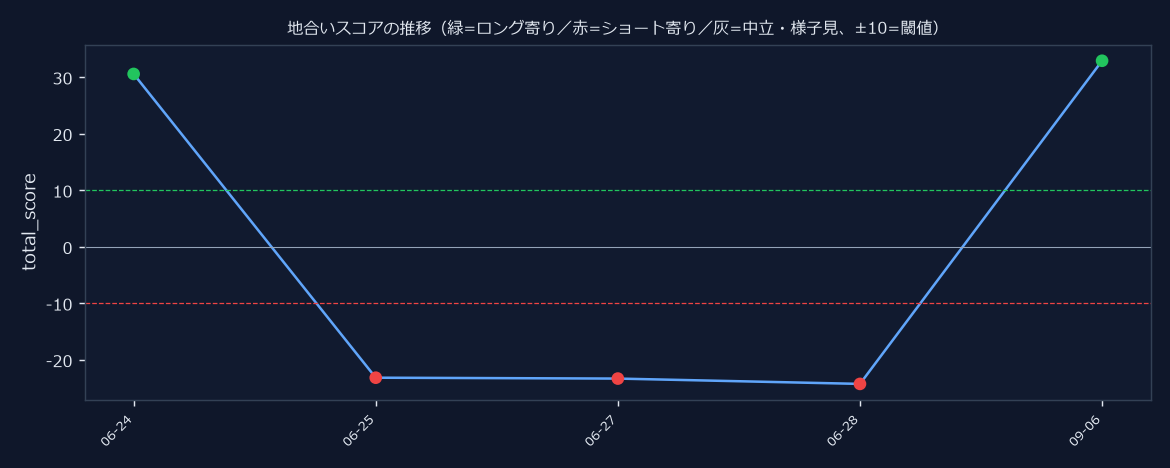
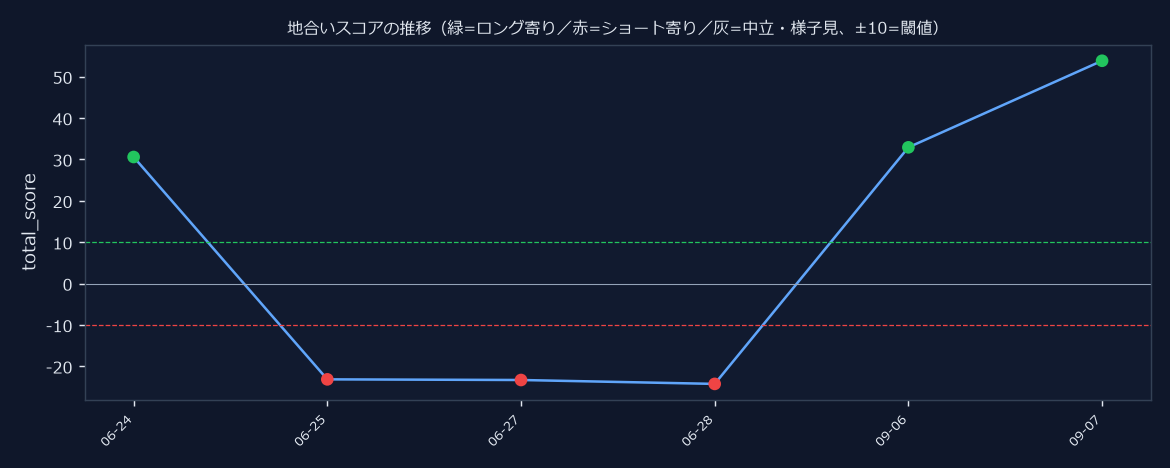
auto: refresh static site (2026-09-07 15:35:28 JST)

diff --git a/docs/index.html b/docs/index.html
@@ -48,7 +48,7 @@ a{color:var(--acc)}.disc{border-top:1px solid var(--border);margin-top:24px;padd
 <div class="channel-bar"><a href="https://www.youtube.com/@EthanHuntStock" target="_blank" rel="noopener noreferrer">▶ YouTube: @EthanHuntStock</a></div>
 <h1>🧠 AIセクターモニター（静的共有版）</h1>
 <a class="cross-link" href="https://ethanhuntstock.github.io/Keijiban-bunseki/" target="_blank" rel="noopener noreferrer">🔗 おにや式投資法ダッシュボード（キオクシア285A掲示板センチメント分析）</a>
-<div class="muted">生成 2026-09-07 15:34 JST｜価格: Yahoo Finance｜ニュース: RSS｜イベント: 手動正本｜60秒毎に自動更新（ブラウザが自動的に再読み込み）</div>
+<div class="muted">生成 2026-09-07 15:35 JST｜価格: Yahoo Finance｜ニュース: RSS｜イベント: 手動正本｜60秒毎に自動更新（ブラウザが自動的に再読み込み）</div>
 <div class="label-note">※「バイアス」「買い目線/売り目線」「発火」「ボラ警戒」は<b>状態を記述するラベル</b>であり売買推奨ではありません。</div>
 <p id='visit-count-badge' class='muted'>👀 累計閲覧数: 22</p>
 <p id='like-button-wrap' class='muted'><button id='like-button' type='button' class='like-btn'>👍</button><span id='like-count-label'>このダッシュボードが役に立ったら押してください（累計 1 いいね）</span></p>
@@ -56,38 +56,38 @@ a{color:var(--acc)}.disc{border-top:1px solid var(--border);margin-top:24px;padd
 <h2>今日のバイアス（地合いスコア）<span class="help" tabindex="0"><span class="help-ico">?</span><span class="help-pop">複数の判断材料（マクロ・メモリ同業・キオクシア固有イベント・ニュース）を1つに合成した“今日の地合い（売買の傾き）”です。プラスほど買い目線、マイナスほど売り目線。<br><br><b>表の見方</b><br>subscore＝各軸の素点（-1〜+1）／weight＝その軸の重み（合計が1になるよう設計）／寄与＝subscore×weight×100。寄与がプラスの軸ほどバイアスを押し上げ、マイナスの軸ほど押し下げています。<br><br><b>各軸の意味</b><br>マクロ(SOX/円)＝米半導体指数と為替の逆風/追い風／メモリピア＝同業(SKハイニックス・サムスン・マイクロン・サンディスク)の値動き／キオクシア固有イベント(守り)＝決算・増資等の警戒度合い（マイナス方向のみに働く軸）／ニュース温度＝ニュース見出しの強気/弱気を自動採点。<br><br>total_score ＋10超＝ロング寄り／−10未満＝ショート寄り／その間＝中立。<b>機械的な目安で、最終判断は人・1日で断定しない。</b></span></span></h2>
 <div class="panel">
   <span class="bias long">ロング寄り</span>
-  <span class="score">total +54.2</span>
-  <span class="delta">▲+21.3（前回 09-06 +32.9 ロング寄り・変化なし）</span>
-  <div class="muted">時点 09-07 15:34｜status ok
+  <span class="score">total +53.9</span>
+  <span class="delta">▲+21.0（前回 09-06 +32.9 ロング寄り・変化なし）</span>
+  <div class="muted">時点 09-07 15:35｜status ok
   </div>
   <img src="images/regime.png" alt="地合いスコア内訳">
-  <table><thead><tr><th>軸</th><th class=num>subscore</th><th class=num>weight</th><th class=num>寄与</th></tr></thead><tbody><tr><td>マクロ(SOX/円)</td><td class=num>0.2627</td><td class=num>0.35</td><td class='num pos'>+9.19</td></tr><tr><td>メモリピア</td><td class=num>1.0</td><td class=num>0.3</td><td class='num pos'>+30.00</td></tr><tr><td>キオクシア固有イベント(守り)</td><td class=num>0.0</td><td class=num>0.2</td><td class='num '>+0.00</td></tr><tr><td>ニュース温度</td><td class=num>1.0</td><td class=num>0.15</td><td class='num pos'>+15.00</td></tr><tr><td>掲示板温度(観測)</td><td class=num>-0.0351</td><td class=num>0.0</td><td class='num '>+0.00</td></tr><tr><td>予想ボラ(観測)</td><td class=num>-0.6401</td><td class=num>0.0</td><td class='num '>+0.00</td></tr></tbody></table>
+  <table><thead><tr><th>軸</th><th class=num>subscore</th><th class=num>weight</th><th class=num>寄与</th></tr></thead><tbody><tr><td>マクロ(SOX/円)</td><td class=num>0.2553</td><td class=num>0.35</td><td class='num pos'>+8.94</td></tr><tr><td>メモリピア</td><td class=num>1.0</td><td class=num>0.3</td><td class='num pos'>+30.00</td></tr><tr><td>キオクシア固有イベント(守り)</td><td class=num>0.0</td><td class=num>0.2</td><td class='num '>+0.00</td></tr><tr><td>ニュース温度</td><td class=num>1.0</td><td class=num>0.15</td><td class='num pos'>+15.00</td></tr><tr><td>掲示板温度(観測)</td><td class=num>-0.0351</td><td class=num>0.0</td><td class='num '>+0.00</td></tr><tr><td>予想ボラ(観測)</td><td class=num>-0.6401</td><td class=num>0.0</td><td class='num '>+0.00</td></tr></tbody></table>
   <div class="muted">total_score ＋10超＝ロング寄り／−10未満＝ショート寄り／その間＝中立。内訳を見て最終判断は人・1日で断定しない。</div>
   <div class="plain">おにや式投資法の掲示板センチメント(強気/弱気の投稿の傾き)を観測用の第5軸として表示しています。今は重みゼロの観測専用で、地合いスコアには含まれません。</div><div class="muted">掲示板温度 -0.04（観測・寄与0）｜灼熱 24｜発火 0/9｜09-07 15:22　｜直近6h推移: 強気比<span class="">—</span>（下降）</div>
 </div>
 
-<h2>セクター概況<span class="help" tabindex="0"><span class="help-ico">?</span><span class="help-pop">AIセクター全体(メモリ/AIチップ/日本SPE計15銘柄)のうち何銘柄が値上がりしているか(値上がり銘柄比率)と、キオクシア(285A)の値動きが直接比較可能な同業(SKハイニックス/サムスン/マイクロン/サンディスク)の分布から何SD乖離しているか(独歩指数)、日本の半導体関連7銘柄のうち何銘柄が同時に急落局面にあるか(急落局面)を表示します。<br><br>値上がり銘柄比率が高い＝セクター全体に追い風の日。独歩指数がプラスに大きい＝285Aだけが同業より強く買われている(独歩高)、マイナスに大きい＝独歩安。±1SD程度は誤差の範囲、±2SD超で「明確に同業と違う動き」の目安です。急落局面＝直近60営業日高値から10%以上下落している銘柄数（複数銘柄が同時に該当＝セクター全体のマクロ要因、1銘柄のみ＝個別材料の目安）。<br><br><b>市場構造の記述であり、売買シグナルではありません。</b></span></span></h2><div class="panel"><div class="plain">「値上がり銘柄比率」は、AIセクターの主要15銘柄のうち何銘柄が値上がりしているかの割合です。比率が高いほどセクター全体に追い風の日ということです。「独歩指数」は、キオクシア(285A)が同業(SKハイニックス・サムスン・マイクロン・サンディスク)と比べて特に強く買われている（プラス＝独歩高）か、特に弱い（マイナス＝独歩安）かを表します。</div><div class="badges"><span class="badge pos">値上がり銘柄比率 15/15（100%）</span><span class="badge ">285A独歩指数 +0.39SD（独歩高）</span></div><div class="muted">市場構造の記述であり、売買シグナルではありません。</div><div class="plain">「急落局面」は、直近60営業日の最高値から10%以上下がっている銘柄のことです。日本の半導体関連7銘柄(キオクシア+製造装置6社)のうち、今どれだけの銘柄が同時に急落局面にあるかを見れば、1銘柄だけの個別材料か、セクター全体のマクロショックかの手がかりになります。</div><div class="badges"><span class="badge neg">急落局面 7/7銘柄</span></div><div class="muted">該当: キオクシア・レーザーテック・ディスコ・SCREEN 他3銘柄</div></div>
+<h2>セクター概況<span class="help" tabindex="0"><span class="help-ico">?</span><span class="help-pop">AIセクター全体(メモリ/AIチップ/日本SPE計15銘柄)のうち何銘柄が値上がりしているか(値上がり銘柄比率)と、キオクシア(285A)の値動きが直接比較可能な同業(SKハイニックス/サムスン/マイクロン/サンディスク)の分布から何SD乖離しているか(独歩指数)、日本の半導体関連7銘柄のうち何銘柄が同時に急落局面にあるか(急落局面)を表示します。<br><br>値上がり銘柄比率が高い＝セクター全体に追い風の日。独歩指数がプラスに大きい＝285Aだけが同業より強く買われている(独歩高)、マイナスに大きい＝独歩安。±1SD程度は誤差の範囲、±2SD超で「明確に同業と違う動き」の目安です。急落局面＝直近60営業日高値から10%以上下落している銘柄数（複数銘柄が同時に該当＝セクター全体のマクロ要因、1銘柄のみ＝個別材料の目安）。<br><br><b>市場構造の記述であり、売買シグナルではありません。</b></span></span></h2><div class="panel"><div class="plain">「値上がり銘柄比率」は、AIセクターの主要15銘柄のうち何銘柄が値上がりしているかの割合です。比率が高いほどセクター全体に追い風の日ということです。「独歩指数」は、キオクシア(285A)が同業(SKハイニックス・サムスン・マイクロン・サンディスク)と比べて特に強く買われている（プラス＝独歩高）か、特に弱い（マイナス＝独歩安）かを表します。</div><div class="badges"><span class="badge pos">値上がり銘柄比率 15/15（100%）</span><span class="badge ">285A独歩指数 +0.37SD（独歩高）</span></div><div class="muted">市場構造の記述であり、売買シグナルではありません。</div><div class="plain">「急落局面」は、直近60営業日の最高値から10%以上下がっている銘柄のことです。日本の半導体関連7銘柄(キオクシア+製造装置6社)のうち、今どれだけの銘柄が同時に急落局面にあるかを見れば、1銘柄だけの個別材料か、セクター全体のマクロショックかの手がかりになります。</div><div class="badges"><span class="badge neg">急落局面 7/7銘柄</span></div><div class="muted">該当: キオクシア・レーザーテック・ディスコ・SCREEN 他3銘柄</div></div>
 
 <h2>寄り前ブリーフ<span class="help" tabindex="0"><span class="help-ico">?</span><span class="help-pop">前夜の米国市場（SOX指数・マイクロン等）と為替・金利から、今朝のキオクシア(285A)の寄り付き方向（上ギャップ＝高く始まる/下ギャップ＝安く始まる）を推定します。“攻め”は順張りしやすい地合い、“守り”は慎重・無理しない地合い。<br><br><b>表の項目</b><br>各行＝前夜の米国市場や為替の変化率(値%)に重み(weight)を掛けて寄与に変換したもの。SOX指数（フィラデルフィア半導体指数）＝米半導体株の代表指数／マイクロン(MU)・サンディスク(SNDK)＝キオクシアと同じNAND/DRAM同業の米国株／エヌビディア(NVDA)＝AI需要の代表株／ドル円(USD/JPY)＝前夜からの為替変化（円安＝寄与＋）／米10年金利(^TNX)＝米国債10年利回り（配信値を1/10に正規化。上昇はグロース株に逆風）。</span></span></h2>
-<div class="panel"><div class="plain">前夜の米国市場と為替・金利から、今朝のキオクシア(285A)の寄り付き方向を推定した記述です。▲ 上ギャップ＝高く/安く始まる見立て、「攻め」＝攻め(順張りしやすい)/守り(慎重)/中立のいずれか。</div><div class="muted"><b>▲ 上ギャップ</b>　攻め　日経ギャップ概算 +0.00%（NIY=F）</div><table><thead><tr><th>項目</th><th class=num>値%</th><th class=num>weight</th><th class=num>寄与</th><th>時点/注記</th></tr></thead><tbody><tr><td>SOX指数（フィラデルフィア半導体）</td><td class='num pos'>+1.05%</td><td class=num>0.3</td><td class='num pos'>+0.315</td><td class=muted>現値%（前夜引け進行） · 09-07 15:34</td></tr><tr><td>マイクロン（MU）</td><td class='num pos'>+6.10%</td><td class=num>0.15</td><td class='num pos'>+0.915</td><td class=muted>前夜引け · 09-07 15:34</td></tr><tr><td>エヌビディア（NVDA）</td><td class='num pos'>+0.84%</td><td class=num>0.15</td><td class='num pos'>+0.125</td><td class=muted>前夜引け · 09-07 15:34</td></tr><tr><td>サンディスク（SNDK）</td><td class='num pos'>+11.90%</td><td class=num>0.15</td><td class='num pos'>+1.785</td><td class=muted>前夜引け · 09-07 15:34</td></tr><tr><td>ドル円（USD/JPY）</td><td class='num pos'>+0.00%</td><td class=num>0.15</td><td class='num pos'>+0.000</td><td class=muted>夜間変化%（円安=+寄与） · 09-07 15:34</td></tr><tr><td>米10年金利（^TNX）</td><td class='num pos'>+0.46%</td><td class=num>-0.1</td><td class='num neg'>-0.046</td><td class=muted>10年金利(1/10正規化)前日比%・上昇=逆風 · 09-07 15:34</td></tr></tbody></table></div>
+<div class="panel"><div class="plain">前夜の米国市場と為替・金利から、今朝のキオクシア(285A)の寄り付き方向を推定した記述です。▲ 上ギャップ＝高く/安く始まる見立て、「攻め」＝攻め(順張りしやすい)/守り(慎重)/中立のいずれか。</div><div class="muted"><b>▲ 上ギャップ</b>　攻め　日経ギャップ概算 +0.00%（NIY=F）</div><table><thead><tr><th>項目</th><th class=num>値%</th><th class=num>weight</th><th class=num>寄与</th><th>時点/注記</th></tr></thead><tbody><tr><td>SOX指数（フィラデルフィア半導体）</td><td class='num pos'>+1.05%</td><td class=num>0.3</td><td class='num pos'>+0.315</td><td class=muted>現値%（前夜引け進行） · 09-07 15:35</td></tr><tr><td>マイクロン（MU）</td><td class='num pos'>+6.10%</td><td class=num>0.15</td><td class='num pos'>+0.915</td><td class=muted>前夜引け · 09-07 15:35</td></tr><tr><td>エヌビディア（NVDA）</td><td class='num pos'>+0.84%</td><td class=num>0.15</td><td class='num pos'>+0.125</td><td class=muted>前夜引け · 09-07 15:35</td></tr><tr><td>サンディスク（SNDK）</td><td class='num pos'>+11.90%</td><td class=num>0.15</td><td class='num pos'>+1.785</td><td class=muted>前夜引け · 09-07 15:35</td></tr><tr><td>ドル円（USD/JPY）</td><td class='num neg'>-0.01%</td><td class=num>0.15</td><td class='num neg'>-0.002</td><td class=muted>夜間変化%（円安=+寄与） · 09-07 15:35</td></tr><tr><td>米10年金利（^TNX）</td><td class='num pos'>+0.46%</td><td class=num>-0.1</td><td class='num neg'>-0.046</td><td class=muted>10年金利(1/10正規化)前日比%・上昇=逆風 · 09-07 15:35</td></tr></tbody></table></div>
 
 <h2>寄り前気配・板の厚み（実測・観測）<span class="help" tabindex="0"><span class="help-ico">?</span><span class="help-pop">08:00〜09:00に記録した寄り前の気配値・注文の厚みです。リアルタイム配信ではなく、記録された時点の観測を後から表示しています。板の厚みは寄り方向の予測・採点には一切使っていません（参考表示のみ）。<b>売買シグナルではなく、最終判断は人。</b></span></span></h2>
 <div class="panel"><div class="plain">記録された寄り前の気配値（寄り付き前の売り気配・買い気配の中値）です。実際の寄り付き値そのものではなく、寄り付き前の見込みという点に注意してください。</div><div class="muted">前営業日の板（凍結表示）｜気配時点 09-07 09:08</div><table><tbody><tr><td>寄り前気配（中値）</td><td class=num>57,460.0</td></tr><tr><td>前日終値</td><td class=num>54,460.0</td></tr><tr><td>気配ギャップ</td><td class="num pos">+5.51%</td></tr><tr><td>板優勢</td><td>買い優勢</td></tr></tbody></table><div class="muted">見方: 気配ギャップ＝想定される寄り付き値の前日終値比。板優勢＝買い注文(下値支持)と売り注文(上値抵抗)のどちらが厚いかの目安（拮抗＝どちらでもない）。売買シグナルではなく、最終判断は人。</div></div>
 <div class="panel"><div class="plain">寄り前の板に並んでいる注文の量（株数）です。買い注文が多いほど下値が支えられやすく、売り注文が多いほど上値が重くなりやすいという目安です。</div><table><tbody><tr><td>買い注文（板の厚み）</td><td class=num>840,800</td></tr><tr><td>売り注文（板の厚み）</td><td class=num>551,700</td></tr><tr><td>買い成行超過</td><td class=num>1,423,800</td></tr><tr><td>売り成行超過</td><td class=num>1,346,200</td></tr><tr><td>板優勢</td><td>買い優勢</td></tr></tbody></table><div class="muted">売買シグナルではなく、寄り方向の採点にも一切使っていない参考表示です。</div></div>
 
 <h2>マクロ（USDJPY / 金利 / FOMC）<span class="help" tabindex="0"><span class="help-ico">?</span><span class="help-pop">円相場・米金利・次回FOMCまでの日数です。円高はキオクシア(輸出採算)に逆風、米金利上昇はグロース半導体のバリュエーションに逆風という見方の目安です。</span></span></h2>
-<div class="panel"><div class="plain">円相場・米金利・次回FOMCまでの日数です。円高はキオクシア(輸出採算)に逆風、米金利上昇はグロース半導体のバリュエーションに逆風という見方の目安です。</div><table><tbody><tr><td>ドル円(USD/JPY)</td><td class="num neg">155.64円 （-0.01%）</td></tr><tr><td>米10年金利(^TNX)</td><td class="num pos">4.78% （+2.2bp）</td></tr><tr><td>米2年金利(DGS2)</td><td class=num>— （FRED DGS2(鍵未設定・欠損)）</td></tr><tr><td>次回FOMCまで</td><td class=num>9日（2026-09-16）</td></tr></tbody></table><div class="muted">円高=285A逆風 / 金利上昇=グロース半導体に逆風</div></div>
+<div class="panel"><div class="plain">円相場・米金利・次回FOMCまでの日数です。円高はキオクシア(輸出採算)に逆風、米金利上昇はグロース半導体のバリュエーションに逆風という見方の目安です。</div><table><tbody><tr><td>ドル円(USD/JPY)</td><td class="num neg">155.62円 （-0.02%）</td></tr><tr><td>米10年金利(^TNX)</td><td class="num pos">4.78% （+2.2bp）</td></tr><tr><td>米2年金利(DGS2)</td><td class=num>— （FRED DGS2(鍵未設定・欠損)）</td></tr><tr><td>次回FOMCまで</td><td class=num>9日（2026-09-16）</td></tr></tbody></table><div class="muted">円高=285A逆風 / 金利上昇=グロース半導体に逆風</div></div>
 
 <h2>ピア・ヒートマップ<span class="help" tabindex="0"><span class="help-ico">?</span><span class="help-pop">キオクシアと同じメモリ(NAND/DRAM)を作る世界の競合、AI需要を映すGPU・ロジック半導体、半導体を作る装置の日本メーカーの値動きです。同業が揃って上げ/下げ＝セクター全体の動き、キオクシアだけ違う＝個別材料の可能性。<br><br><b>ティッカーの見方</b><br>末尾「.T」＝東証、「.KS」＝韓国KOSPI、無印＝米国NASDAQ/NYSE。000660.KS＝SKハイニックス、005930.KS＝サムスン電子、MU＝マイクロン、SNDK＝サンディスク（2025年にWDから分離）。^SOX＝フィラデルフィア半導体指数（米半導体株30銘柄の代表指数）。TSM(ADR)のADR＝米国預託証券（台湾本土のTSMC株を米国市場で売買できる証券）。<br><br>東京エレクトロン＝成膜・エッチング装置最大手級／レーザーテック＝EUV向け検査装置でほぼ独占的地位／アドバンテスト＝半導体テスタ最大手／ディスコ＝ダイシング・グラインダ装置／SCREEN＝洗浄装置／KOKUSAI ELECTRIC＝成膜装置(NAND向けに強い)。</span></span></h2>
 <div class="panel"><img src="images/heatmap.png" alt="ヒートマップ">
-<h3>メモリ半導体ピア</h3><table><thead><tr><th>銘柄</th><th class=num>価格</th><th class=num>騰落%</th><th>データ時点</th></tr></thead><tbody><tr><td>キオクシア <span class=muted>285A.T</span></td><td class=num>59,380.0</td><td class='num pos'>+9.03%</td><td class=muted>当日場中/前日終値</td></tr><tr><td>SKハイニックス <span class=muted>000660.KS</span></td><td class=num>1,782,000.0</td><td class='num pos'>+8.20%</td><td class=muted>前日KRX引け</td></tr><tr><td>サムスン電子 <span class=muted>005930.KS</span></td><td class=num>269,250.0</td><td class='num pos'>+5.38%</td><td class=muted>前日KRX引け</td></tr><tr><td>マイクロン <span class=muted>MU</span></td><td class=num>1,016.6</td><td class='num pos'>+6.10%</td><td class=muted>前夜引け</td></tr><tr><td>サンディスク <span class=muted>SNDK</span></td><td class=num>1,740.0</td><td class='num pos'>+11.90%</td><td class=muted>前夜引け</td></tr></tbody></table>
+<h3>メモリ半導体ピア</h3><table><thead><tr><th>銘柄</th><th class=num>価格</th><th class=num>騰落%</th><th>データ時点</th></tr></thead><tbody><tr><td>キオクシア <span class=muted>285A.T</span></td><td class=num>59,340.0</td><td class='num pos'>+8.96%</td><td class=muted>当日場中/前日終値</td></tr><tr><td>SKハイニックス <span class=muted>000660.KS</span></td><td class=num>1,781,000.0</td><td class='num pos'>+8.14%</td><td class=muted>前日KRX引け</td></tr><tr><td>サムスン電子 <span class=muted>005930.KS</span></td><td class=num>269,500.0</td><td class='num pos'>+5.48%</td><td class=muted>前日KRX引け</td></tr><tr><td>マイクロン <span class=muted>MU</span></td><td class=num>1,016.6</td><td class='num pos'>+6.10%</td><td class=muted>前夜引け</td></tr><tr><td>サンディスク <span class=muted>SNDK</span></td><td class=num>1,740.0</td><td class='num pos'>+11.90%</td><td class=muted>前夜引け</td></tr></tbody></table>
 <h3>AIチップ / SOX</h3><table><thead><tr><th>銘柄</th><th class=num>価格</th><th class=num>騰落%</th><th>データ時点</th></tr></thead><tbody><tr><td>フィラデルフィア半導体指数 <span class=muted>^SOX</span></td><td class=num>—</td><td class='num pos'>+1.05%</td><td class=muted>現値%（前夜引け進行）</td></tr><tr><td>エヌビディア <span class=muted>NVDA</span></td><td class=num>230.4</td><td class='num pos'>+0.84%</td><td class=muted>前夜引け</td></tr><tr><td>AMD <span class=muted>AMD</span></td><td class=num>477.6</td><td class='num pos'>+4.69%</td><td class=muted>前夜引け</td></tr><tr><td>ブロードコム <span class=muted>AVGO</span></td><td class=num>357.9</td><td class='num pos'>+0.21%</td><td class=muted>前夜引け</td></tr><tr><td>TSMC(ADR) <span class=muted>TSM</span></td><td class=num>428.9</td><td class='num pos'>+2.85%</td><td class=muted>前夜引け</td></tr></tbody></table>
-<h3>日本 半導体製造装置</h3><table><thead><tr><th>銘柄</th><th class=num>価格</th><th class=num>騰落%</th><th>データ時点</th></tr></thead><tbody><tr><td>東京エレクトロン <span class=muted>8035.T</span></td><td class=num>55,830.0</td><td class='num pos'>+4.71%</td><td class=muted>当日場中/前日終値</td></tr><tr><td>レーザーテック <span class=muted>6920.T</span></td><td class=num>35,430.0</td><td class='num pos'>+6.78%</td><td class=muted>当日場中/前日終値</td></tr><tr><td>アドバンテスト <span class=muted>6857.T</span></td><td class=num>34,270.0</td><td class='num pos'>+3.57%</td><td class=muted>当日場中/前日終値</td></tr><tr><td>ディスコ <span class=muted>6146.T</span></td><td class=num>56,660.0</td><td class='num pos'>+4.04%</td><td class=muted>当日場中/前日終値</td></tr><tr><td>SCREEN <span class=muted>7735.T</span></td><td class=num>13,510.0</td><td class='num pos'>+3.68%</td><td class=muted>当日場中/前日終値</td></tr><tr><td>KOKUSAI ELECTRIC <span class=muted>6525.T</span></td><td class=num>8,915.0</td><td class='num pos'>+7.47%</td><td class=muted>当日場中/前日終値</td></tr></tbody></table></div>
+<h3>日本 半導体製造装置</h3><table><thead><tr><th>銘柄</th><th class=num>価格</th><th class=num>騰落%</th><th>データ時点</th></tr></thead><tbody><tr><td>東京エレクトロン <span class=muted>8035.T</span></td><td class=num>55,840.0</td><td class='num pos'>+4.73%</td><td class=muted>当日場中/前日終値</td></tr><tr><td>レーザーテック <span class=muted>6920.T</span></td><td class=num>35,430.0</td><td class='num pos'>+6.78%</td><td class=muted>当日場中/前日終値</td></tr><tr><td>アドバンテスト <span class=muted>6857.T</span></td><td class=num>34,260.0</td><td class='num pos'>+3.54%</td><td class=muted>当日場中/前日終値</td></tr><tr><td>ディスコ <span class=muted>6146.T</span></td><td class=num>56,740.0</td><td class='num pos'>+4.19%</td><td class=muted>当日場中/前日終値</td></tr><tr><td>SCREEN <span class=muted>7735.T</span></td><td class=num>13,515.0</td><td class='num pos'>+3.72%</td><td class=muted>当日場中/前日終値</td></tr><tr><td>KOKUSAI ELECTRIC <span class=muted>6525.T</span></td><td class=num>8,910.0</td><td class='num pos'>+7.41%</td><td class=muted>当日場中/前日終値</td></tr></tbody></table></div>
 
 <h2>支持線・抵抗線（285A・日足テクニカル）<span class="help" tabindex="0"><span class="help-ico">?</span><span class="help-pop">過去データから機械的に算出した価格の目安です。<br><br>・ピボットP＝前日の高値・安値・終値の平均から出す基準線。R1/R2＝Pより上の目安（R1が近く、R2はより遠い上値の壁）。S1/S2＝Pより下の目安（S1が近く、S2はより遠い下値の壁）。<br>・フィボ38.2%/50%/61.8%＝直近の高値→安値の値幅を黄金比で区切った「戻り」の目安。数字が大きいほど深い戻り。<br>・ラウンド＝54,460円なら55,000円のような、心理的にキリが良く売買が集中しやすい株価。<br>・直近高値(60本)＝直近60営業日の日足で一番高かった値段。<br>・ATR(Average True Range)＝1日の値動きの大きさの平均。想定変動幅＝現在値±ATR×1.5で「通常はこの範囲に収まりやすい」という目安の帯。<br>・上値抵抗/下値支持の表は現在値に近い5件を選んだ上で、価格が高い順に並べています。<br><br><b>現在値の下のバッジ</b><br>・トレンドレジーム(UP/DOWN/レンジ)＝終値が20日移動平均線の上下どちらにあり、その移動平均線自体が上昇/下降しているかの市場構造の記述。<br>・直近高値比＝直近60営業日の高値から現在値が何%乖離しているか。<br>・出来高＝直近20営業日平均出来高との倍率。<br>・分割まで＝2026年10月に予定される株式分割(1株→3株)の効力発生日までの日数と分割後換算価格。<br><br><b>売買シグナルではなく、最終判断は人・1日で断定しない。</b></span></span></h2>
-<div class="panel"><div class="plain">トレンドレジームは今の値動きが上昇基調(UP)・下降基調(DOWN)・横ばい(レンジ)のどれに近いか。直近高値比は直近60営業日の最高値から現在値が何%下がっているか。出来高は普段(直近20営業日平均)と比べて売買がどれだけ活発か（1.0倍が普段どおり）。分割まではキオクシアの株式分割(1株→3株)の効力発生日までの日数です。</div><div class="badges"><span class="badge pos">📈 UPレジーム</span><span class="badge neg">直近高値比 -47.3%</span><span class="badge ">出来高 0.8倍</span><span class="badge">分割まであと24日(2026-10-01)・換算19,783円相当</span></div><div class="muted">現在値 59,350.0｜前日終値 54,460.0｜想定変動幅(ATR×1.5) 52,074.2 〜 66,625.8</div><table><thead><tr><th colspan=4>上値抵抗（価格が高い順）</th></tr></thead><tbody><tr><td>直近高値(60本)</td><td class=num>112,700.0</td><td class='num neg'>+89.89%</td><td class=muted>+12.56SD</td></tr><tr><td>フィボ38.2%</td><td class=num>83,408.2</td><td class='num neg'>+40.54%</td><td class=muted>+5.67SD</td></tr><tr><td>フィボ50%</td><td class=num>74,360.0</td><td class='num neg'>+25.29%</td><td class=muted>+3.54SD</td></tr><tr><td>フィボ61.8%</td><td class=num>65,311.8</td><td class='num neg'>+10.05%</td><td class=muted>+1.40SD</td></tr><tr><td>ラウンド</td><td class=num>60,000.0</td><td class='num neg'>+1.10%</td><td class=muted>+0.15SD</td></tr></tbody></table><table><thead><tr><th colspan=4>下値支持（価格が高い順）</th></tr></thead><tbody><tr><td>ピボR2</td><td class=num>57,533.3</td><td class='num pos'>-3.06%</td><td class=muted>-0.43SD</td></tr><tr><td>ピボR1</td><td class=num>55,996.7</td><td class='num pos'>-5.65%</td><td class=muted>-0.79SD</td></tr><tr><td>ラウンド</td><td class=num>55,000.0</td><td class='num pos'>-7.33%</td><td class=muted>-1.02SD</td></tr><tr><td>前日終値</td><td class=num>54,460.0</td><td class='num pos'>-8.24%</td><td class=muted>-1.15SD</td></tr><tr><td>ピボP</td><td class=num>53,663.3</td><td class='num pos'>-9.58%</td><td class=muted>-1.34SD</td></tr></tbody></table>
+<div class="panel"><div class="plain">トレンドレジームは今の値動きが上昇基調(UP)・下降基調(DOWN)・横ばい(レンジ)のどれに近いか。直近高値比は直近60営業日の最高値から現在値が何%下がっているか。出来高は普段(直近20営業日平均)と比べて売買がどれだけ活発か（1.0倍が普段どおり）。分割まではキオクシアの株式分割(1株→3株)の効力発生日までの日数です。</div><div class="badges"><span class="badge pos">📈 UPレジーム</span><span class="badge neg">直近高値比 -47.3%</span><span class="badge ">出来高 0.8倍</span><span class="badge">分割まであと24日(2026-10-01)・換算19,787円相当</span></div><div class="muted">現在値 59,360.0｜前日終値 54,460.0｜想定変動幅(ATR×1.5) 52,084.2 〜 66,635.8</div><table><thead><tr><th colspan=4>上値抵抗（価格が高い順）</th></tr></thead><tbody><tr><td>直近高値(60本)</td><td class=num>112,700.0</td><td class='num neg'>+89.86%</td><td class=muted>+12.56SD</td></tr><tr><td>フィボ38.2%</td><td class=num>83,408.2</td><td class='num neg'>+40.51%</td><td class=muted>+5.66SD</td></tr><tr><td>フィボ50%</td><td class=num>74,360.0</td><td class='num neg'>+25.27%</td><td class=muted>+3.53SD</td></tr><tr><td>フィボ61.8%</td><td class=num>65,311.8</td><td class='num neg'>+10.03%</td><td class=muted>+1.40SD</td></tr><tr><td>ラウンド</td><td class=num>60,000.0</td><td class='num neg'>+1.08%</td><td class=muted>+0.15SD</td></tr></tbody></table><table><thead><tr><th colspan=4>下値支持（価格が高い順）</th></tr></thead><tbody><tr><td>ピボR2</td><td class=num>57,533.3</td><td class='num pos'>-3.08%</td><td class=muted>-0.43SD</td></tr><tr><td>ピボR1</td><td class=num>55,996.7</td><td class='num pos'>-5.67%</td><td class=muted>-0.79SD</td></tr><tr><td>ラウンド</td><td class=num>55,000.0</td><td class='num pos'>-7.35%</td><td class=muted>-1.03SD</td></tr><tr><td>前日終値</td><td class=num>54,460.0</td><td class='num pos'>-8.25%</td><td class=muted>-1.15SD</td></tr><tr><td>ピボP</td><td class=num>53,663.3</td><td class='num pos'>-9.60%</td><td class=muted>-1.34SD</td></tr></tbody></table>
 <div class="muted">ピボット/フィボナッチ/直近60営業日高安/ラウンドナンバーから機械的に算出した参考の目安。売買シグナルではない。最終判断は人・1日で断定しない。｜285Aの日次リターンSD(2026-06-26以降・記録注意期間除外)＝7.15%/日。SD単位は普段の1日の値動きの何倍離れているかの目安。</div></div>
-<div class="panel"><div class="plain">「往復実効費用」とは、株を買ってから売るまでに実質的にかかるコスト（買値と売値の差＝スプレッド等）のことです。今日の値動きの大きさが、このコストの何倍あったかを見ると「動いた分がコストで消えていないか」が分かります。</div><b>往復実効費用との比較（観測）</b><br>本日の値動き 897.9bp ＝ 往復実効費用 2.76bp（板ウォーク実測） の <b class=pos>325.3倍</b><div class="muted">見方: <span class=pos>緑(2倍以上)</span>＝値動きが費用を明確に上回る／<span class=amber>橙(1〜2倍)</span>＝費用に埋もれやすい／<span class=neg>赤(1倍未満)</span>＝費用が値動きを上回る。</div></div>
+<div class="panel"><div class="plain">「往復実効費用」とは、株を買ってから売るまでに実質的にかかるコスト（買値と売値の差＝スプレッド等）のことです。今日の値動きの大きさが、このコストの何倍あったかを見ると「動いた分がコストで消えていないか」が分かります。</div><b>往復実効費用との比較（観測）</b><br>本日の値動き 899.7bp ＝ 往復実効費用 2.76bp（板ウォーク実測） の <b class=pos>326.0倍</b><div class="muted">見方: <span class=pos>緑(2倍以上)</span>＝値動きが費用を明確に上回る／<span class=amber>橙(1〜2倍)</span>＝費用に埋もれやすい／<span class=neg>赤(1倍未満)</span>＝費用が値動きを上回る。</div></div>
 <div class="panel"><div class="plain">「指値注文」とは、買いたい・売りたい値段を自分で指定して出す注文のことです（成行注文はその時の市場価格ですぐ約定しますが、指値はその価格に達するまで待つ注文です）。この表は、その指値注文が実際にどれくらいの割合で成立し（約定率）、成立までに何秒かかったか（約定まで）を銘柄ごとに集計したものです。</div><b>指値執行の質（観測・売買シグナルでない）</b><table><thead><tr><th>銘柄</th><th class=num>約定率</th><th class=num>約定まで(中央)</th></tr></thead><tbody><tr><td>285A</td><td class='num amber'>73.9%</td><td class=num>0.6秒</td></tr><tr><td>6146</td><td class='num amber'>77.8%</td><td class=num>5.8秒</td></tr><tr><td>6920</td><td class='num amber'>78.6%</td><td class=num>1.3秒</td></tr><tr><td>8035</td><td class='num amber'>78.6%</td><td class=num>6.3秒</td></tr></tbody></table><div class="muted">見方: <span class=pos>緑(80%以上)</span>＝指値が機能しやすい／<span class=amber>橙(50〜80%)</span>／<span class=neg>赤(50%未満)</span>＝約定しにくい。</div><div class="muted">執行環境の記述であり売買シグナルではない。pret30s_bpは観測/MDE=50%でまだ検出圏外のため使用しない</div></div>
 
 <h2>当日節目・VWAP押し目シグナル（285A・観測）<span class="help" tabindex="0"><span class="help-ico">?</span><span class="help-pop">当日の始値・高値・安値・前日終値・心理節目からの「今日の節目」一覧と、現在値がVWAP（出来高加重平均価格）に対してどの状態にあるかを示します。ティック記録が必要なため、リアルタイムで動けない時は直近の引け時点で記録した値を表示します（その場合はその旨を明記）。<b>売買シグナルではなく、最終判断は人・1日で断定しない。</b></span></span></h2>
@@ -113,10 +113,10 @@ a{color:var(--acc)}.disc{border-top:1px solid var(--border);margin-top:24px;padd
 
 <h2>地合いスコア台帳（推移）<span class="help" tabindex="0"><span class="help-ico">?</span><span class="help-pop">毎日の“今日のバイアス”と total_score を記録した表です。10〜20営業日ためて地合いスコアが当たっているか人が判断します（1日の結果では決めない）。</span></span></h2>
 <div class="panel"><img src="images/ledger.png" alt="台帳推移">
-<table><thead><tr><th>日付</th><th>バイアス</th><th class=num>total</th></tr></thead><tbody><tr><td>2026-09-06</td><td>ロング寄り</td><td class=num>+32.9</td></tr><tr><td>2026-06-28</td><td>ショート寄り</td><td class=num>-24.2</td></tr><tr><td>2026-06-27</td><td>ショート寄り</td><td class=num>-23.3</td></tr><tr><td>2026-06-25</td><td>ショート寄り</td><td class=num>-23.1</td></tr><tr><td>2026-06-24</td><td>ロング寄り</td><td class=num>+30.6</td></tr></tbody></table></div>
+<table><thead><tr><th>日付</th><th>バイアス</th><th class=num>total</th></tr></thead><tbody><tr><td>2026-09-07</td><td>ロング寄り</td><td class=num>+53.9</td></tr><tr><td>2026-09-06</td><td>ロング寄り</td><td class=num>+32.9</td></tr><tr><td>2026-06-28</td><td>ショート寄り</td><td class=num>-24.2</td></tr><tr><td>2026-06-27</td><td>ショート寄り</td><td class=num>-23.3</td></tr><tr><td>2026-06-25</td><td>ショート寄り</td><td class=num>-23.1</td></tr><tr><td>2026-06-24</td><td>ロング寄り</td><td class=num>+30.6</td></tr></tbody></table></div>
 
 <h2>寄り方向 採点・bias別リターン（観測）<span class="help" tabindex="0"><span class="help-ico">?</span><span class="help-pop">寄り前に記録した「上/下ギャップ」予測と、実際の寄り付き値を毎営業日突き合わせた採点記録、および地合いバイアス別の翌営業日リターン平均です。10〜20営業日ためてから、地合いスコアが実際の値動きと合っているかを人が判断します（1日の結果では断定しません）。<b>売買シグナルではなく、最終判断は人。</b></span></span></h2>
-<div class="panel"><div class="plain">寄り前に記録した「上/下ギャップ」の予測が、実際の寄り付き値と当たっていたか（○的中/×不的中）を毎営業日採点した記録です。的中率が高い/低いからといって、それだけで売買判断はできません（10〜20営業日ためて判断します）。</div><div class="muted">直近20営業日 的中率 100%（1/20件・判定閾値±0.3%）｜平均誤差 3.95%（まだ蓄積中）</div><table><thead><tr><th>日付</th><th>予測</th><th class=num>予測ギャップ</th><th class=num>実績ギャップ</th><th>判定</th></tr></thead><tbody><tr><td>2026-09-07</td><td>up</td><td class=num>+3.14%</td><td class=num>+7.09%</td><td>○的中</td></tr></tbody></table><div class="plain">地合いバイアス（ロング寄り/ショート寄り/中立）別に、その翌営業日の285Aが寄り→引けでどう動いたかの平均です。</div><table><thead><tr><th>バイアス</th><th class=num>件数</th><th class=num>平均リターン</th></tr></thead><tbody><tr><td colspan=3 class=muted>蓄積待ち</td></tr></tbody></table><div class="muted">regime台帳5行（うち翌営業日リターン判明0行・平日15:35台帳の自動記録）</div></div>
+<div class="panel"><div class="plain">寄り前に記録した「上/下ギャップ」の予測が、実際の寄り付き値と当たっていたか（○的中/×不的中）を毎営業日採点した記録です。的中率が高い/低いからといって、それだけで売買判断はできません（10〜20営業日ためて判断します）。</div><div class="muted">直近20営業日 的中率 100%（1/20件・判定閾値±0.3%）｜平均誤差 3.95%（まだ蓄積中）</div><table><thead><tr><th>日付</th><th>予測</th><th class=num>予測ギャップ</th><th class=num>実績ギャップ</th><th>判定</th></tr></thead><tbody><tr><td>2026-09-07</td><td>up</td><td class=num>+3.14%</td><td class=num>+7.09%</td><td>○的中</td></tr></tbody></table><div class="plain">地合いバイアス（ロング寄り/ショート寄り/中立）別に、その翌営業日の285Aが寄り→引けでどう動いたかの平均です。</div><table><thead><tr><th>バイアス</th><th class=num>件数</th><th class=num>平均リターン</th></tr></thead><tbody><tr><td>ロング寄り</td><td class=num>1</td><td class='num pos'>+2.07%</td></tr></tbody></table><div class="muted">regime台帳6行（うち翌営業日リターン判明1行・平日15:35台帳の自動記録）</div></div>
 
 <h2>信用取引週末残高（285A・週次）<span class="help" tabindex="0"><span class="help-ico">?</span><span class="help-pop">JPXが毎週公表する「信用取引週末残高」（一般信用+制度信用の完全版）です。「信用買残」は将来売られる可能性のある株数、「信用売残」は将来買い戻される可能性のある株数の目安で、買残÷売残＝信用倍率が高いほど将来的な売り圧力（利益確定・損切りの解消売り）が相対的に大きいという見方の目安です。<br><br>JPXは直近5週分程度しか常時公開しないため、過去8週間分は週次タスクの実行を重ねるごとに自動的に蓄積されます。<br><br><b>市場構造の記述であり、売買シグナルではありません。</b></span></span></h2>
 <div class="panel"><div class="plain">「信用買残」はまだ決済されていない信用取引の買い建玉数（将来、利益確定や損切りで売られる可能性がある株数）、「信用売残」は信用取引の売り建玉数（将来、買い戻される可能性がある株数）です。買残÷売残＝信用倍率が高いほど、将来的な売り圧力が相対的に大きいという見方の目安です（現在5週分蓄積・目標8週。週次タスクの実行ごとに増えます）。</div><table><thead><tr><th>週(申込日)</th><th class=num>信用買残</th><th class=num>信用売残</th><th class=num>倍率</th></tr></thead><tbody><tr><td>2026-08-28</td><td class=num>16,165,800</td><td class=num>457,100</td><td class='num neg'>35.4倍</td></tr><tr><td>2026-08-21</td><td class=num>13,289,500</td><td class=num>768,200</td><td class='num amber'>17.3倍</td></tr><tr><td>2026-08-14</td><td class=num>12,103,500</td><td class=num>769,500</td><td class='num amber'>15.7倍</td></tr><tr><td>2026-08-07</td><td class=num>13,231,000</td><td class=num>556,200</td><td class='num amber'>23.8倍</td></tr><tr><td>2026-07-31</td><td class=num>12,321,600</td><td class=num>544,600</td><td class='num amber'>22.6倍</td></tr></tbody></table><div class="muted">見方: <span class=pos>緑(15倍未満)</span>／<span class=amber>橙(15〜30倍)</span>／<span class=neg>赤(30倍以上)</span>＝倍率が高いほど将来の売り圧力(需給悪化)の目安が大きい。</div><div class="muted">最新: 2026-08-28時点｜出典: JPX週次公表（銘柄別信用取引週末残高）</div><div class="muted">信用取引残高の推移を示す観測データであり、売買シグナルではありません。JPXが常時公開するのは直近5週分程度のため、8週分に満たない場合は週次タスクの実行を重ねるごとに自動的に増えていきます。</div></div>
